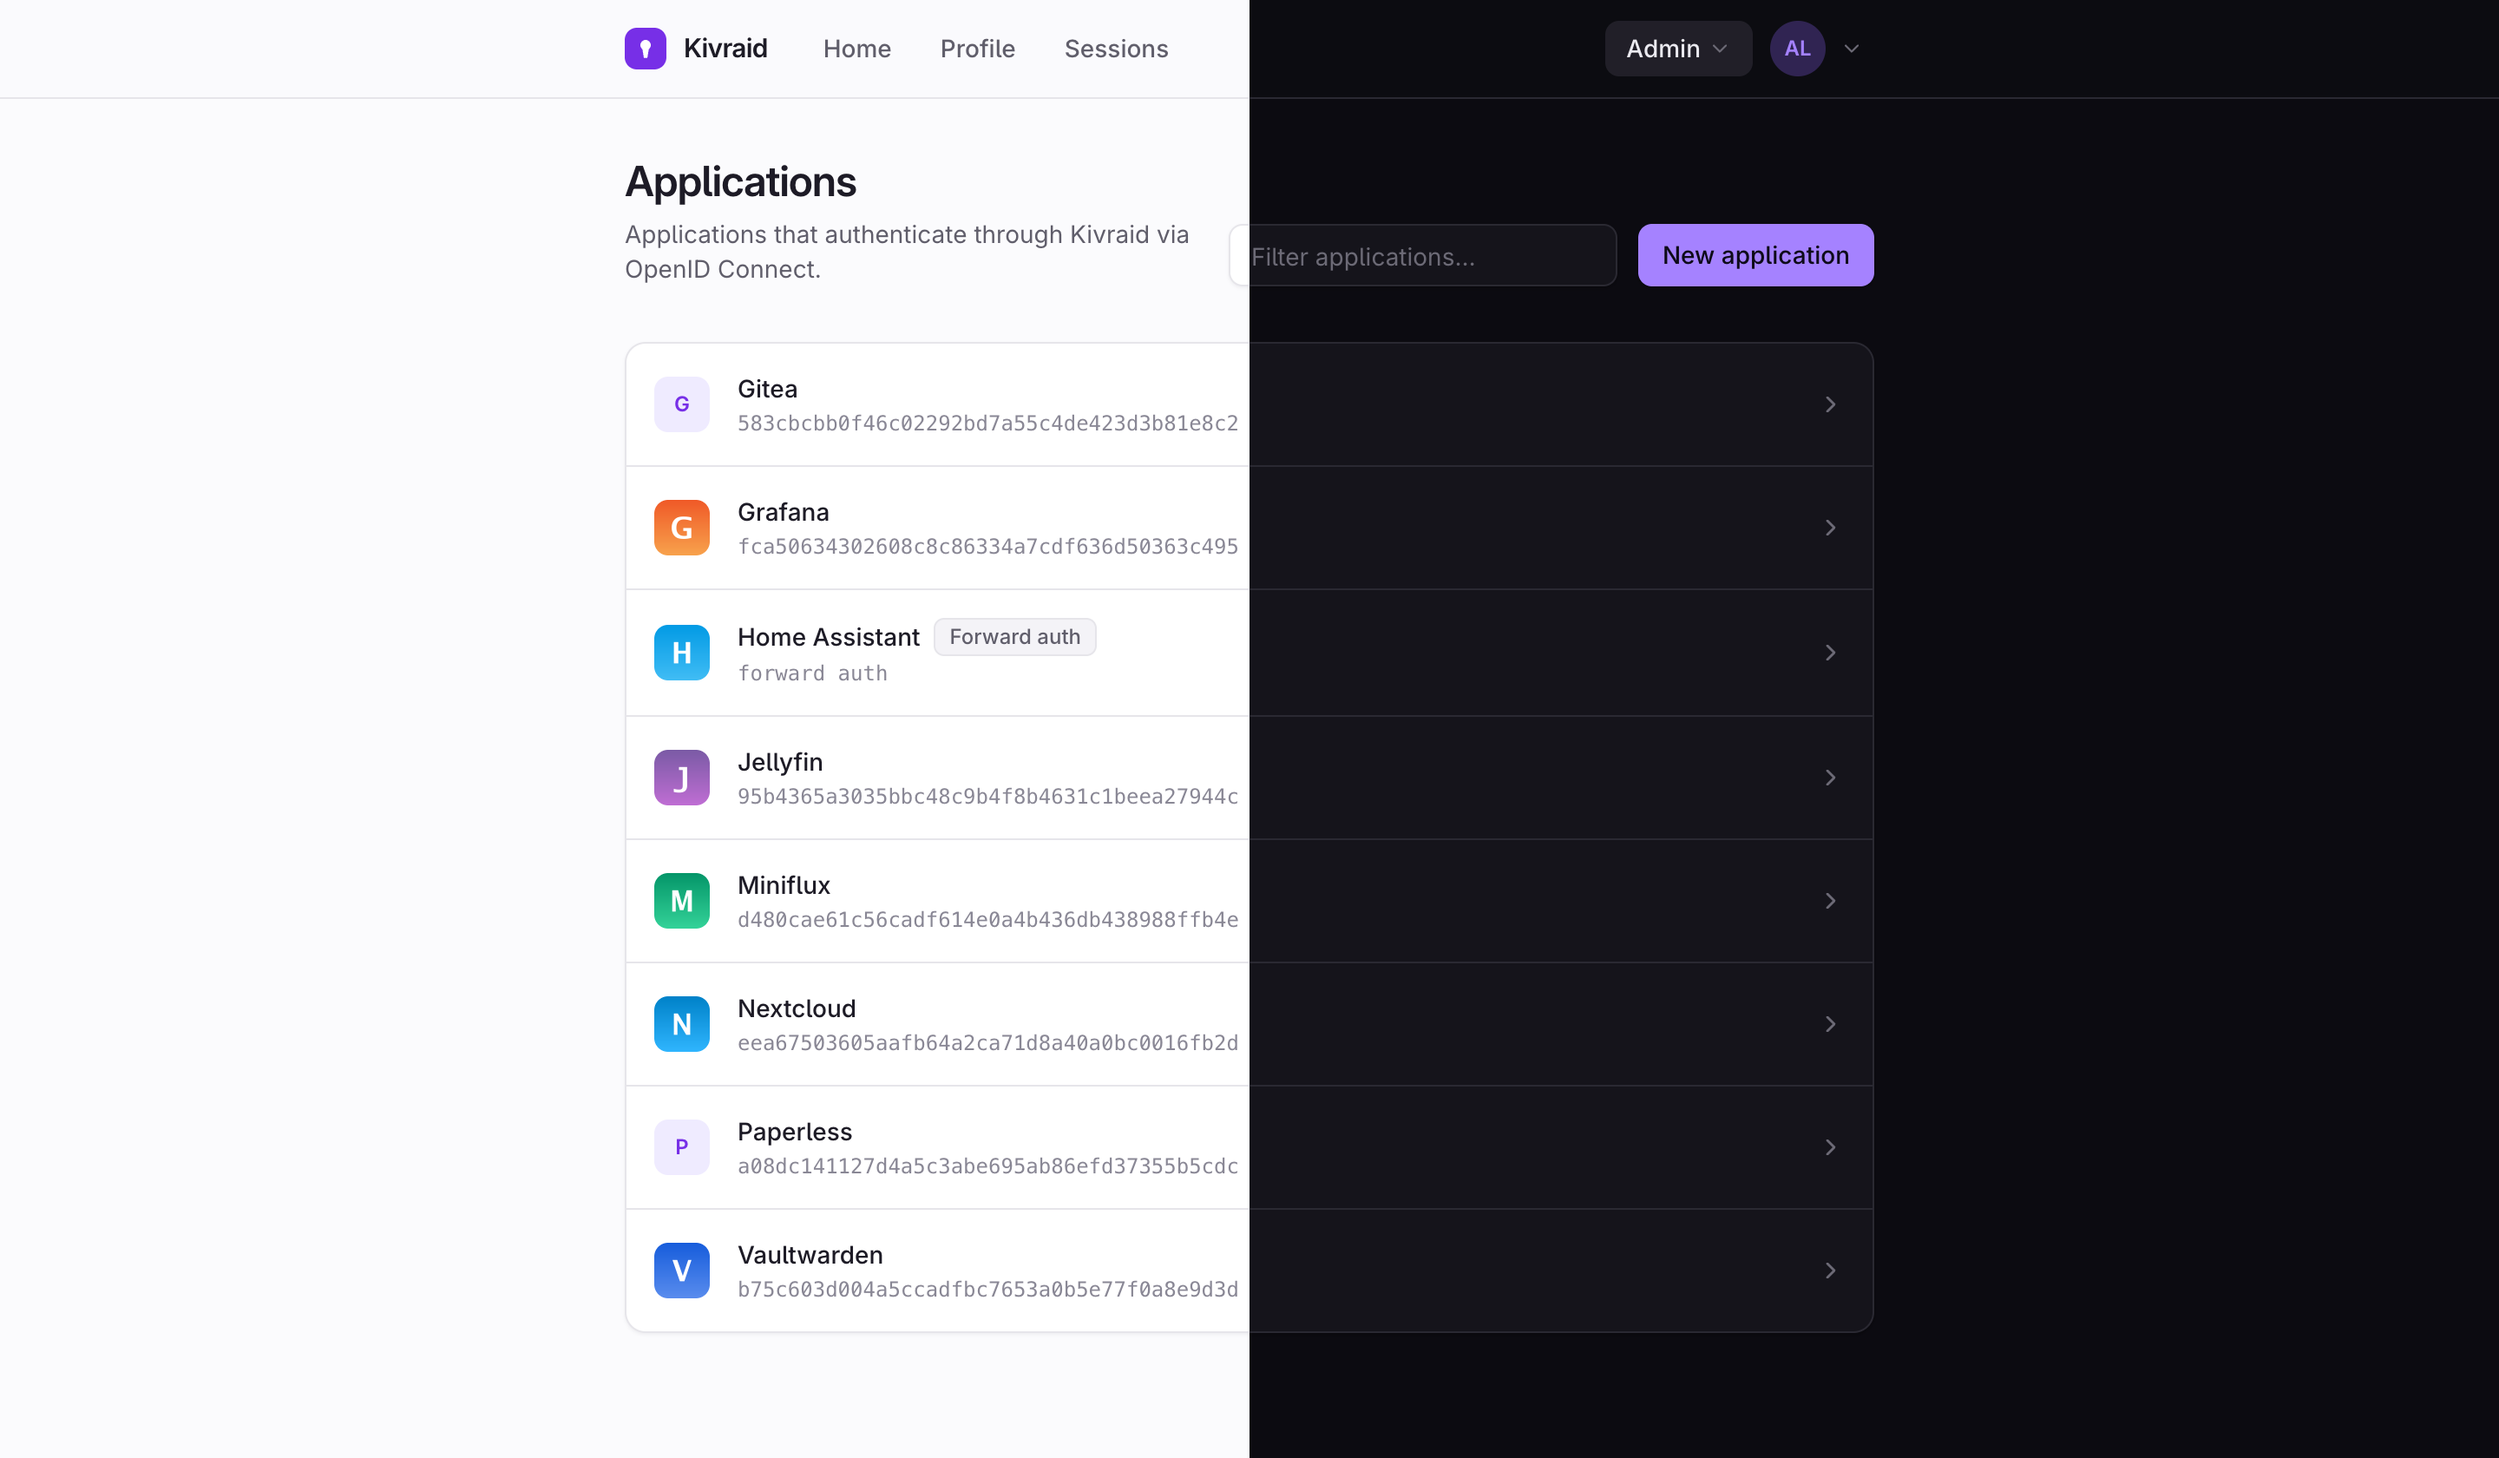
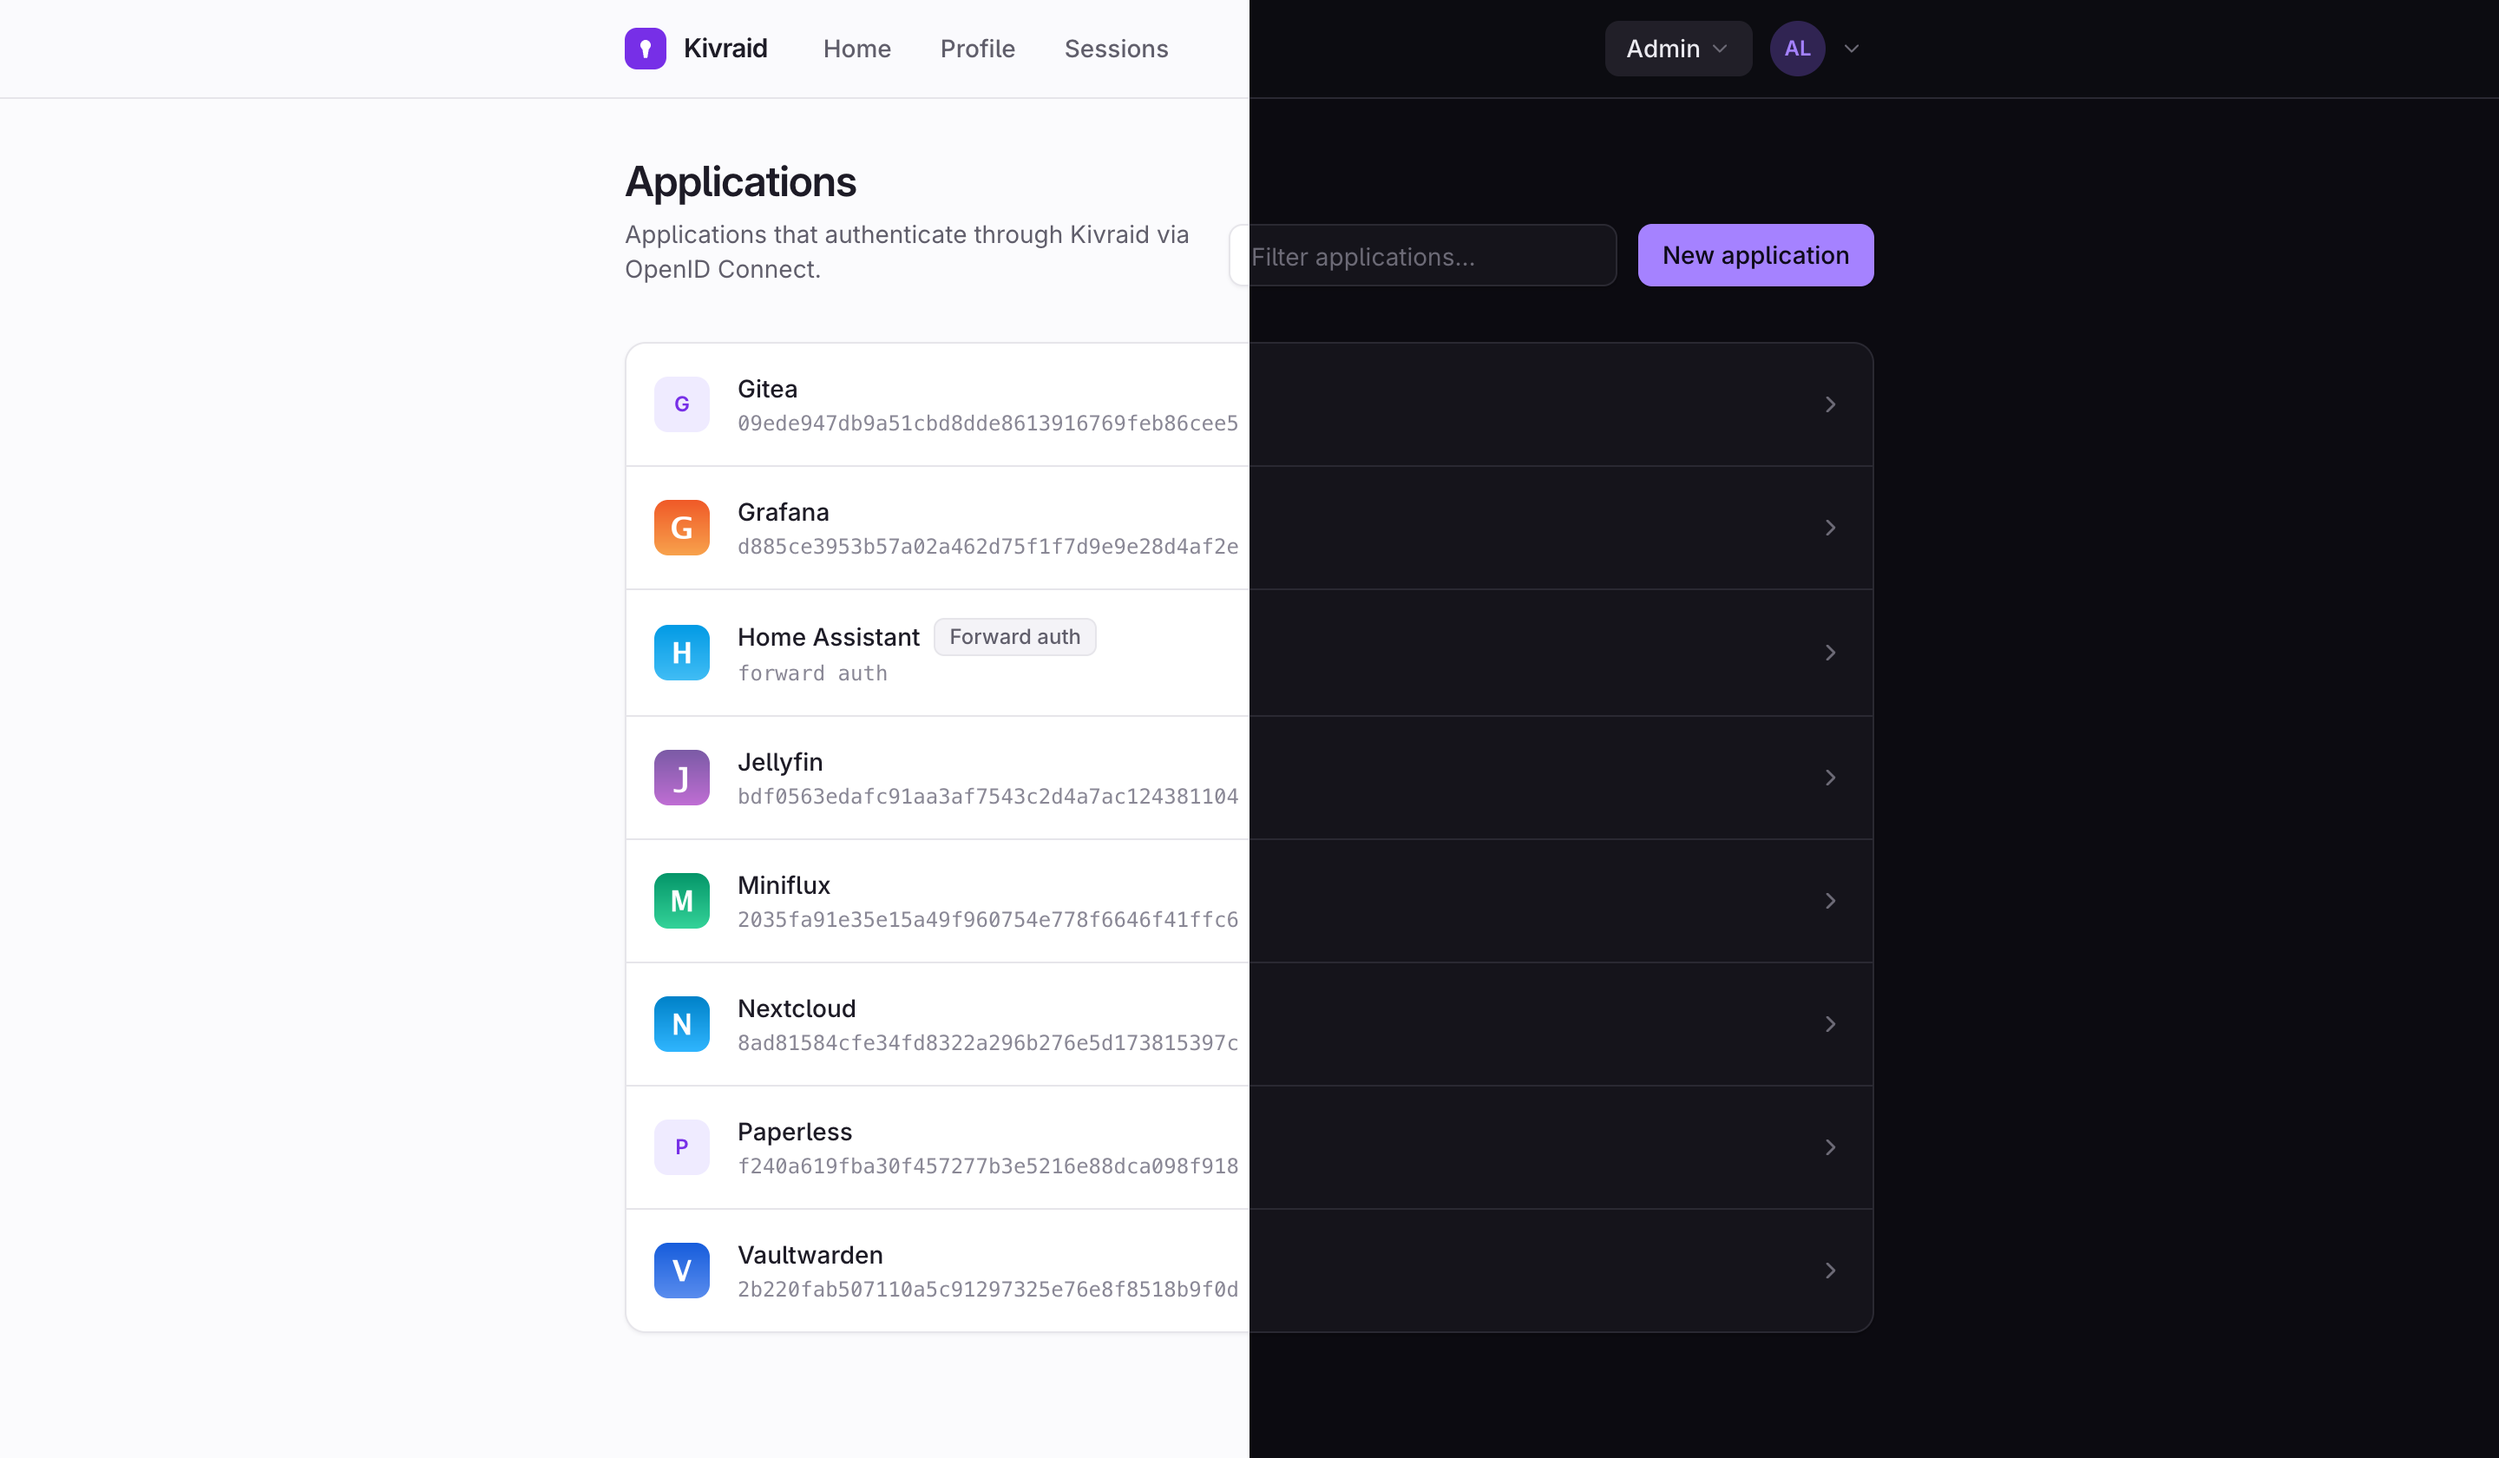
docs: federation guide and refreshed screenshots
Add docs/federation.md covering upstream OIDC providers, home-realm-
discovery routing, provisioning/linking, group mapping and RP-initiated
logout, and link it from the README. Fix the screenshot tool for the
identifier-first two-step login (it was filling the password on the first
page, which no longer has that field) and regenerate the captures.

diff --git a/tools/screenshots/main.go b/tools/screenshots/main.go
@@ -408,11 +408,14 @@ func captureAll() (map[string][2][]byte, error) {
 	}
 	shots["login"] = pair
 
-	// Log in, then the portal launcher.
+	// Log in (identifier-first: username, then password on the next step),
+	// then the portal launcher.
 	if err := chromedp.Run(ctx,
 		chromedp.SendKeys(`#username`, adminUser),
-		chromedp.SendKeys(`#password`, adminPass),
 		chromedp.Click(`form[action="/login"] button[type=submit]`),
+		chromedp.WaitVisible(`#password`),
+		chromedp.SendKeys(`#password`, adminPass),
+		chromedp.Click(`form[action="/login/password"] button[type=submit]`),
 		chromedp.WaitVisible(`h1`),
 		chromedp.EmulateViewport(1440, 570, chromedp.EmulateScale(2)),
 	); err != nil {

diff --git a/docs/federation.md b/docs/federation.md
@@ -1,0 +1,84 @@
+# Federation (upstream OIDC)
+
+Kivraid can act as an **OpenID Connect relying party** to upstream identity
+providers, so users sign in through an existing IdP (Authentik, Keycloak,
+Google, …) and Kivraid federates their accounts. Configure this under
+**Admin → Federation**, which has two tabs: **Providers** and **Routing**.
+
+Generic OIDC only for now — any issuer that publishes a discovery document
+works. Non-OIDC social providers (e.g. GitHub) are not supported yet.
+
+## Registering a provider
+
+Under **Federation → Providers → New provider**:
+
+- **Issuer URL** — the provider's base URL; its
+  `/.well-known/openid-configuration` is fetched to discover the endpoints.
+  Use **Test discovery** to confirm it resolves before saving.
+- **Client ID / secret** — the credentials of the OAuth client you register
+  at the upstream. Leave the secret empty for a public client (Kivraid then
+  uses PKCE). The secret is encrypted at rest.
+- **Scopes** — space-separated, must include `openid` (default
+  `openid profile email`; add e.g. `groups` if the provider gates the groups
+  claim behind a scope).
+- **Claim mapping** — which claims carry the email, name and groups. The
+  stable `sub` claim always identifies the account.
+- **Allow sign-up** — provision a Kivraid account automatically on first
+  login. Off means only already-linked users can sign in.
+
+Register these two URLs (shown on the provider page) at the upstream:
+
+- the **redirect URI** — `https://<your-kivraid>/login/upstream/<id>/callback`
+- the **post-logout redirect URI** — `https://<your-kivraid>/login`, if the
+  provider supports RP-initiated logout.
+
+An enabled provider shows a **"Continue with …"** button on the login page.
+
+## Login routing (home-realm discovery)
+
+Rather than click a button, users can just type their identifier and be
+routed automatically. Under **Federation → Routing**, the entered identifier
+is matched **most-specific first**:
+
+1. an **exact identifier** rule (`alice@example.com → provider`),
+2. then an **email domain** rule (`@example.com → provider`),
+3. then the **default** (local password, or a provider).
+
+A rule targeting `local` sends the user to the normal password step; a
+provider target redirects into that provider. An unknown or disabled target
+falls back to local rather than dead-ending.
+
+## Provisioning and linking
+
+On a successful upstream login, Kivraid resolves the account in this order:
+
+1. **Already linked** — a user matching this provider and `sub` signs in.
+2. **Link by email** — an existing local/LDAP account is linked **only when
+   the email is verified on both sides**, to avoid account takeover. A
+   collision on an unverified email is refused, not hijacked.
+3. **Provision** — otherwise a new federated user is created, if the provider
+   allows sign-up.
+
+Federated sign-in bypasses the local password and two-factor steps: the
+upstream owns authentication.
+
+## Groups
+
+The provider's groups claim is mirrored onto Kivraid groups on every login
+(like the LDAP group sync): matching groups are created by name, tagged to
+the provider, and the user's membership in them is refreshed each time. A
+group flagged **"Members are administrators"** therefore lets the upstream
+drive who administers Kivraid.
+
+## Logout
+
+When a federated user signs out, Kivraid also signs them out at the upstream
+(RP-initiated logout) when the provider advertises an end-session endpoint,
+then returns to the login page. Local sessions just end as usual.
+
+## Notes
+
+- The relying party (and its discovery) is cached per provider and rebuilt
+  only when the provider's configuration changes.
+- Deleting a provider keeps its federated users, but they can no longer sign
+  in through it.

diff --git a/README.md b/README.md
@@ -214,6 +214,8 @@ they move fast, so verify current capabilities before relying on them.</sub>
   Grafana, Nextcloud, Gitea, Proxmox, and a generic reference.
 - [LDAP directories](docs/ldap.md) — bind auth, group models, write-back.
 - [Forward auth](docs/forward-auth.md) — protecting apps without native SSO.
+- [Federation](docs/federation.md) — sign users in through an upstream OIDC
+  provider, with home-realm-discovery routing.
 - [Deployment](docs/deployment.md) — Docker, systemd, resource footprint.
 - [DESIGN.md](DESIGN.md) — architecture decisions and roadmap.
 
